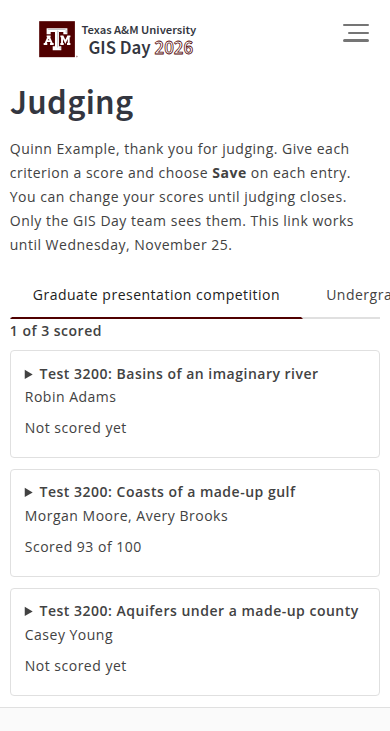
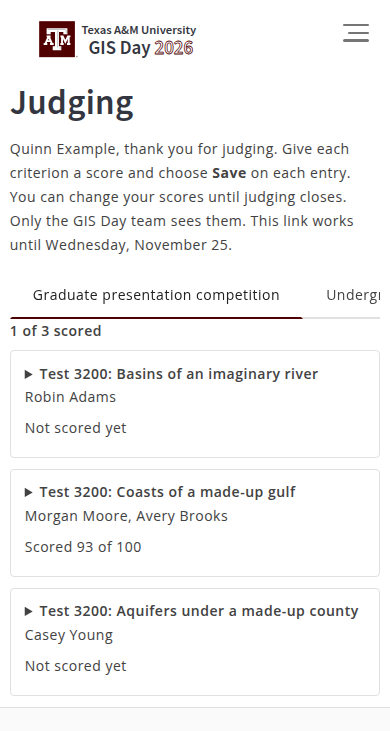
docs(gisday): Phone images of a judge's tabs scrolling in their own row (#3200)
At e19ccc90b (lab, batch 134), the same made-up judge and entries: the 390 image taken again, and new
ones at 360 and at 390 with the tab row swiped to its end and the second tab tapped. The page is no
wider than the window at 390 or 360 on either tab; the tab row scrolls (628 by 371 at 390, 628 by 342
at 360). The 1280 image is pixel for pixel the same as before, so it is not replaced.

Changed region(s): [[0.0923, 0.3912, 0.7077, 0.4213], [0.8308, 0.3912, 1.0, 0.4213]]

diff --git a/docs/releases/unreleased/3200-collapse-competitions.md b/docs/releases/unreleased/3200-collapse-competitions.md
@@ -23,4 +23,6 @@ judge scoring one had to scroll past everything else
 | After: the same made-up judge, the graduate competition's tab open, its three entries closed, by first author (Adams, Moore, Young) | ![The Judging page: a tab for each competition, the graduate presentation competition's chosen and underlined in maroon, then 1 of 3 scored and three closed entries, each showing its title, authors and Not scored yet or Scored 93 of 100](../screenshots/3200-collapse-competitions/after-tabs.png) |
 | After: one entry opened, its saved score in the boxes | ![The graduate competition's tab with its second entry open, its form indented as its heading is: its abstract, the seven criteria with their scores and levels, the comment, Scored 93 of 100 points and Save, between the two closed entries](../screenshots/3200-collapse-competitions/after-entry-open.png) |
 | After: the undergraduate competition chosen | ![The Judging page with the undergraduate presentation competition's tab chosen and underlined, 0 of 2 scored, and its two closed entries, by first author (Ellis, Pupil)](../screenshots/3200-collapse-competitions/after-other-tab.png) |
-| After: on a phone, 390 pixels wide | ![The Judging page on a phone: the graduate competition's tab chosen and underlined, the undergraduate tab cut off at the right edge, then 1 of 3 scored and its three closed entries](../screenshots/3200-collapse-competitions/after-tabs-phone.png) |
+| After: on a phone, 390 pixels wide | ![The Judging page on a phone: the graduate competition's tab chosen and underlined, the undergraduate tab beginning at the right edge of a row that scrolls sideways, then 1 of 3 scored and its three closed entries, nothing past the page's right edge](../screenshots/3200-collapse-competitions/after-tabs-phone.png) |
+| After: on a smaller phone, 360 pixels wide | ![The Judging page at 360 pixels: the graduate competition's tab chosen and underlined, the start of the undergraduate tab at the edge of the tab row, then 1 of 3 scored and its three closed entries, nothing past the page's right edge](../screenshots/3200-collapse-competitions/after-tabs-phone-360.png) |
+| After: on a phone, the tab row swiped and the undergraduate tab tapped | ![The Judging page on a phone with the tab row scrolled to its end: the undergraduate presentation competition's tab chosen and underlined in full, then 0 of 2 scored and its two closed entries](../screenshots/3200-collapse-competitions/after-tabs-phone-scrolled.png) |
